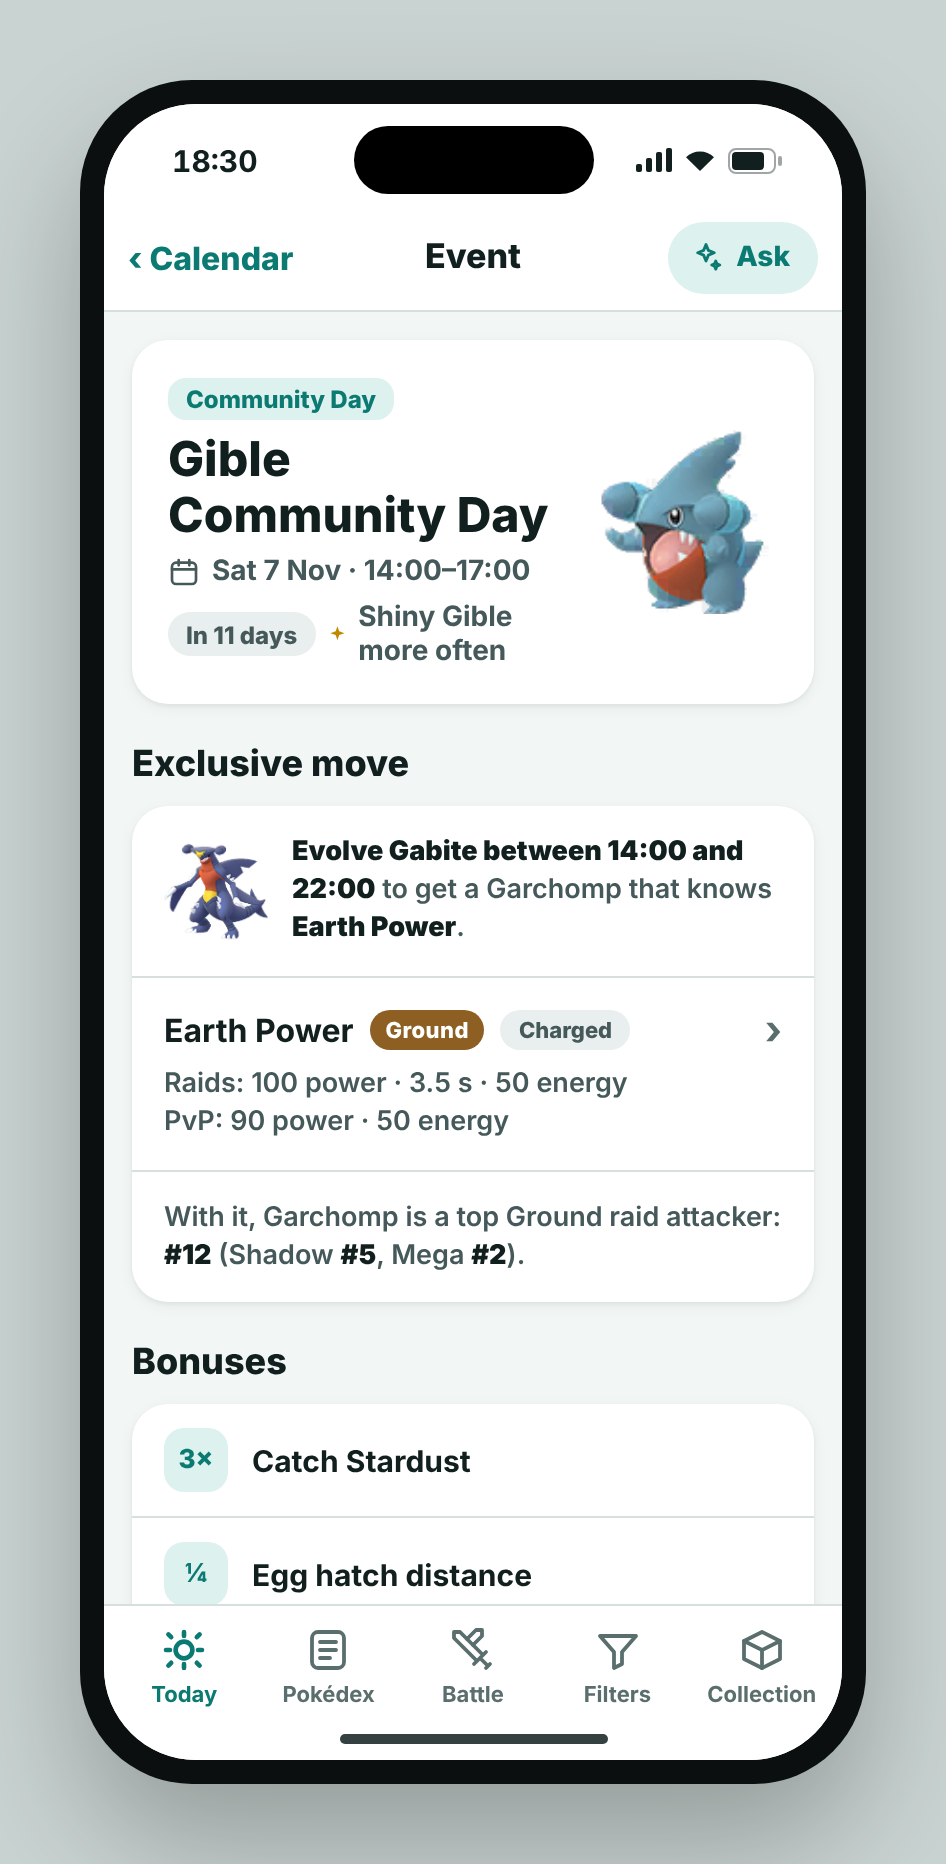
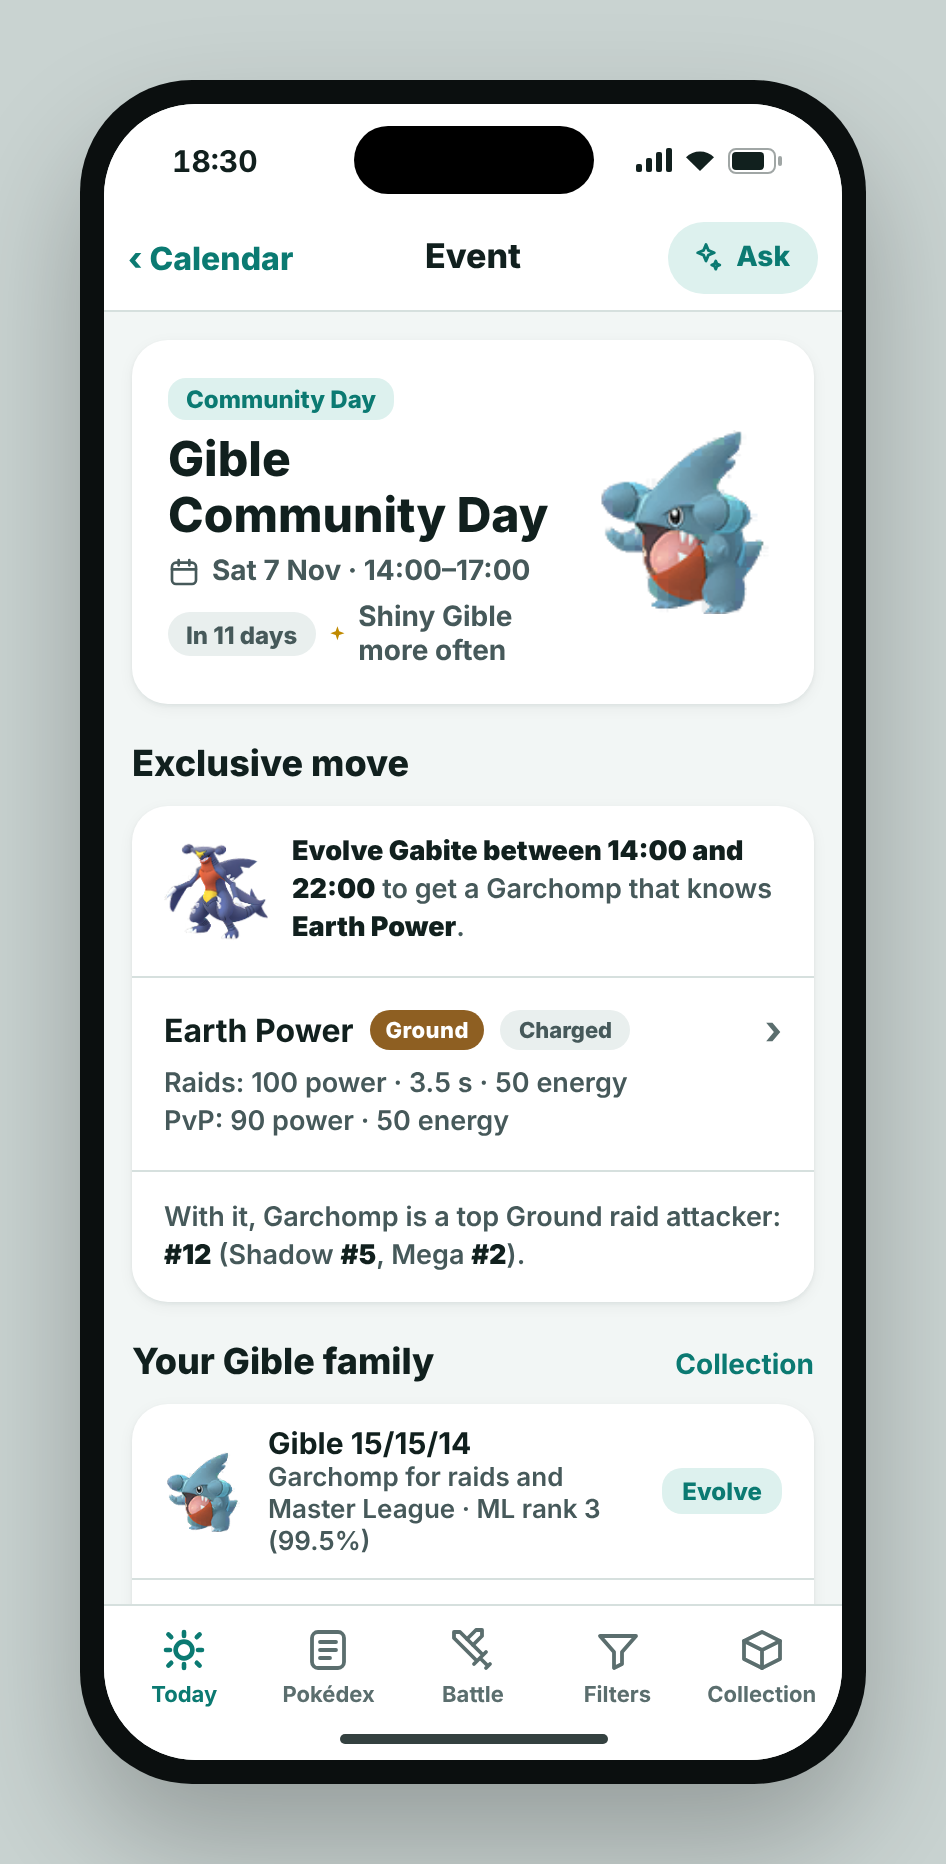
No source info anywhere (2.11 removed); A3 shows your Gible family (proposal)
Claude-Session: https://claude.ai/code/session_014PLsCiJiJmtsciFeh9tQXY

Changed region(s): [[0.1226, 0.7157, 0.6131, 0.8712], [0.7051, 0.7779, 0.8277, 0.8401], [0.7051, 0.7157, 0.8584, 0.7468]]

diff --git a/design/source/screens/A3-phone.html b/design/source/screens/A3-phone.html
@@ -12,6 +12,13 @@
  <div class="blk"><div style="display:flex;align-items:center;gap:8px"><b style="font-size:16px">Earth Power</b><span class="type ground">Ground</span><span class="pill soft" style="height:20px;font-size:11px">Charged</span><span class="chev">›</span></div>
   <div class="note" style="margin-top:6px">Raids: 100 power · 3.5 s · 50 energy<br>PvP: 90 power · 50 energy</div></div>
  <div class="blk note">With it, Garchomp is a top Ground raid attacker: <b style="color:var(--text)">#12</b> (Shadow <b style="color:var(--text)">#5</b>, Mega <b style="color:var(--text)">#2</b>).</div>
+</div></section><section class="section"><div class="sechead"><h2 class="sectitle">Your Gible family</h2><a class="seclink">Collection</a></div><div class="card">
+ <div class="mrow"><img class="sprite" src="../sprites/443.png" width="40" height="40" alt=""><div class="mtxt"><b>Gible 15/15/14</b><span>Garchomp for raids and Master League · ML rank 3 (99.5%)</span></div><span class="tag go">Evolve</span></div>
+ <div class="mrow"><img class="sprite" src="../sprites/443.png" width="40" height="40" alt=""><div class="mtxt"><b>Gible 0/15/14</b><span>Great League rank 1 · Garchomp CP 1,495</span></div><span class="tag go">Evolve</span></div>
+ <div class="mrow"><img class="sprite" src="../sprites/443.png" width="40" height="40" alt=""><div class="mtxt"><b>Gible 1/13/15</b><span>Great League rank 11 (99.4%) · backup</span></div><span class="tag go">Evolve</span></div>
+ <div class="mrow"><img class="sprite" src="../sprites/444.png" width="40" height="40" alt=""><div class="mtxt"><b>Gabite 12/12/13</b><span>Master League rank 160 (96.6%) · if you have the candy</span></div><span class="tag maybe">Optional</span></div>
+ <div class="mrow"><img class="sprite" src="../sprites/443.png" width="40" height="40" alt=""><div class="mtxt"><b>Gible 10/4/2</b><span>Not good in any league</span></div><span class="tag no">Transfer</span></div>
+ <div class="blk note">Each Garchomp costs 25 + 100 candy. Poke Genie doesn't export candy, so check yours in the game.</div>
 </div></section><section class="section"><h2 class="sectitle">Bonuses</h2><div class="card">
  <div class="li"><span class="ic">3×</span>Catch Stardust</div>
  <div class="li"><span class="ic">¼</span>Egg hatch distance</div>

diff --git a/design/source/screens/A3-desktop.html b/design/source/screens/A3-desktop.html
@@ -18,7 +18,14 @@
  <div class="li"><span class="ic">¼</span>Egg hatch distance</div>
  <div class="li"><span class="ic">3h</span>Lure Modules and Incense last 3 hours</div>
 </div></section></div>
- <div style="display:flex;flex-direction:column;gap:22px"><section class="section"><h2 class="sectitle">100% CP to look for</h2><div class="card"><table class="cpt">
+ <div style="display:flex;flex-direction:column;gap:22px"><section class="section"><div class="sechead"><h2 class="sectitle">Your Gible family</h2><a class="seclink">Collection</a></div><div class="card">
+ <div class="mrow"><img class="sprite" src="../sprites/443.png" width="40" height="40" alt=""><div class="mtxt"><b>Gible 15/15/14</b><span>Garchomp for raids and Master League · ML rank 3 (99.5%)</span></div><span class="tag go">Evolve</span></div>
+ <div class="mrow"><img class="sprite" src="../sprites/443.png" width="40" height="40" alt=""><div class="mtxt"><b>Gible 0/15/14</b><span>Great League rank 1 · Garchomp CP 1,495</span></div><span class="tag go">Evolve</span></div>
+ <div class="mrow"><img class="sprite" src="../sprites/443.png" width="40" height="40" alt=""><div class="mtxt"><b>Gible 1/13/15</b><span>Great League rank 11 (99.4%) · backup</span></div><span class="tag go">Evolve</span></div>
+ <div class="mrow"><img class="sprite" src="../sprites/444.png" width="40" height="40" alt=""><div class="mtxt"><b>Gabite 12/12/13</b><span>Master League rank 160 (96.6%) · if you have the candy</span></div><span class="tag maybe">Optional</span></div>
+ <div class="mrow"><img class="sprite" src="../sprites/443.png" width="40" height="40" alt=""><div class="mtxt"><b>Gible 10/4/2</b><span>Not good in any league</span></div><span class="tag no">Transfer</span></div>
+ <div class="blk note">Each Garchomp costs 25 + 100 candy. Poke Genie doesn't export candy, so check yours in the game.</div>
+</div></section><section class="section"><h2 class="sectitle">100% CP to look for</h2><div class="card"><table class="cpt">
  <tr><th>Pokémon</th><th>Normal</th><th>Boosted</th></tr>
  <tr><td>Gible (catch)</td><td>954</td><td>1,033</td></tr>
  <tr><td>Garchomp (after evolving)</td><td>3,396</td><td>3,679</td></tr>

diff --git a/design/source/screens/_a3.css b/design/source/screens/_a3.css
@@ -15,3 +15,12 @@
 .chev { margin-left: auto; color: var(--text-3); font-size: 20px; font-weight: 700; }
 .note { font-size: 13.5px; color: var(--text-2); font-weight: 600; line-height: 1.4; }
 .type { vertical-align: 1px; }
+
+.mrow { display: flex; align-items: center; gap: 12px; padding: 10px 16px; }
+.mrow + .mrow { border-top: 1px solid var(--line); }
+.mtxt { flex: 1; min-width: 0; display: flex; flex-direction: column; font-size: 15px; }
+.mtxt span { font-size: 13px; color: var(--text-2); font-weight: 600; }
+.tag { flex: none; font-size: 12px; font-weight: 800; padding: 4px 10px; border-radius: 10px; }
+.tag.go { background: var(--accent-soft); color: var(--accent); }
+.tag.maybe { background: var(--surface-2); color: var(--text-2); }
+.tag.no { background: #FBE4E1; color: var(--danger); }

diff --git a/design/source/screens/gen_a3.py b/design/source/screens/gen_a3.py
@@ -36,13 +36,21 @@ research = '''<section class="section"><h2 class="sectitle">Field Research</h2><
  <div class="li" style="font-weight:700"><img class="sprite" src="../sprites/443.png" width="32" height="32" alt=""><div><div>Catch 15 Gible</div><div class="note">Reward: Gible encounter</div></div></div>
 </div></section>'''
 
+mine = """<section class="section"><div class="sechead"><h2 class="sectitle">Your Gible family</h2><a class="seclink">Collection</a></div><div class="card">
+ <div class="mrow"><img class="sprite" src="../sprites/443.png" width="40" height="40" alt=""><div class="mtxt"><b>Gible 15/15/14</b><span>Garchomp for raids and Master League · ML rank 3 (99.5%)</span></div><span class="tag go">Evolve</span></div>
+ <div class="mrow"><img class="sprite" src="../sprites/443.png" width="40" height="40" alt=""><div class="mtxt"><b>Gible 0/15/14</b><span>Great League rank 1 · Garchomp CP 1,495</span></div><span class="tag go">Evolve</span></div>
+ <div class="mrow"><img class="sprite" src="../sprites/443.png" width="40" height="40" alt=""><div class="mtxt"><b>Gible 1/13/15</b><span>Great League rank 11 (99.4%) · backup</span></div><span class="tag go">Evolve</span></div>
+ <div class="mrow"><img class="sprite" src="../sprites/444.png" width="40" height="40" alt=""><div class="mtxt"><b>Gabite 12/12/13</b><span>Master League rank 160 (96.6%) · if you have the candy</span></div><span class="tag maybe">Optional</span></div>
+ <div class="mrow"><img class="sprite" src="../sprites/443.png" width="40" height="40" alt=""><div class="mtxt"><b>Gible 10/4/2</b><span>Not good in any league</span></div><span class="tag no">Transfer</span></div>
+ <div class="blk note">Each Garchomp costs 25 + 100 candy. Poke Genie doesn't export candy, so check yours in the game.</div>
+</div></section>"""
 fresh = ''
 head = '<!doctype html><html lang="en"><head><meta charset="utf-8"><title>A3 Event details</title><link rel="stylesheet" href="../base.css"><link rel="stylesheet" href="_a3.css"></head><body>'
 
 phone = head + f'''<div class="stage"><div class="device"><div class="screen">
 <div data-statusbar></div><div data-dethead="Calendar|Event"></div>
 <div class="scroll"><div style="padding:14px 14px 20px;display:flex;flex-direction:column;gap:20px">
-{hero(92)}{move}{bonuses}{cps}{research}{fresh}
+{hero(92)}{move}{mine}{bonuses}{cps}{research}{fresh}
 </div></div><div data-tabbar="today"></div></div></div></div><script src="../chrome.js"></script></body></html>'''
 
 desk = head + f'''<div class="desktop"><div data-sidebar="calendar"></div><div class="main"><div data-topbar></div>
@@ -50,7 +58,7 @@ desk = head + f'''<div class="desktop"><div data-sidebar="calendar"></div><div c
 {hero(132)}
 <div style="display:grid;grid-template-columns:minmax(0,1.3fr) minmax(0,1fr);gap:24px;align-items:start">
  <div style="display:flex;flex-direction:column;gap:22px">{move}{bonuses}</div>
- <div style="display:flex;flex-direction:column;gap:22px">{cps}{research}</div>
+ <div style="display:flex;flex-direction:column;gap:22px">{mine}{cps}{research}</div>
 </div>{fresh}</div></div></div><script src="../chrome.js"></script></body></html>'''
 
 (HERE / 'A3-phone.html').write_text(phone)

diff --git a/planning/SPECS.md b/planning/SPECS.md
@@ -46,8 +46,6 @@ How each feature works from the user's side, as signed off by the owner. Priorit
 
 **Type matchups (MVP).** Weaknesses and resistances with multipliers.
 
-**Sources (MVP).** Each fact shows where it came from (game files, PvPoke; later "admin-verified").
-
 **Later (Good to have).** Special conditions found by the AI (with data corrections); changes over time (history from the game files); "report wrong data"; your copies of it with their ranks; power-up cost (candy, XL candy, Stardust, incl. Shadow/Purified/lucky).
 
 **Where the information comes from.** Game files (stats, moves, evolution rules, forms, history), PvPoke (PvP rankings, move flags), our calculations (raid ranks, best IVs, CP tables), the AI researcher (current appearances), later AI-found facts.
@@ -118,7 +116,7 @@ How each feature works from the user's side, as signed off by the owner. Priorit
 
 **Getting there.** From the menu (Raids), "Today in the game" on the home page, and the calendar.
 
-**Boss list (MVP).** Current bosses by tier (1-star, 3-star, 5-star, Mega, Shadow, Elite) with picture, types, dates and shiny availability; an Upcoming section. Fetched weekly by the AI researcher (sources such as LeekDuck) and published automatically; the admin can fix or remove entries.
+**Boss list (MVP).** Current bosses by tier (1-star, 3-star, 5-star, Mega, Shadow, Elite) with picture, types, dates and shiny availability; an Upcoming section. Fetched weekly by the AI researcher (sources such as LeekDuck) and published automatically; the admin can fix or remove entries. No source information is shown on screens.
 
 **Boss page (MVP).** Types, weaknesses and resistances; possible moves; 100% CP normal and weather-boosted; **best counters** (averaged over the boss's moves, re-ranked when you pick its actual moves; one Mega slot); **your best counters** from your collection at real levels and IVs.
 
@@ -128,7 +126,7 @@ How each feature works from the user's side, as signed off by the owner. Priorit
 
 **Future.** Weather check (approximate in-game weather where you are).
 
-**Where the information comes from.** AI researcher (bosses, dates; source shown), game files (boss stats, moves), our raid calculations (counters, with type effectiveness and boss moves).
+**Where the information comes from.** AI researcher (bosses, dates), game files (boss stats, moves), our raid calculations (counters, with type effectiveness and boss moves).
 
 ## 7. Max Battles — signed off 2026-10-27 (all after the MVP)
 
@@ -242,7 +240,7 @@ How each feature works from the user's side, as signed off by the owner. Priorit
 
 **Calendar (MVP).** Current and upcoming raid rotations, Max Battle weeks and events (Community Days, Spotlight Hours, Raid Days/Hours, seasons, special events) with dates and times in your time zone, featured Pokémon, bonuses and exclusive moves.
 
-**AI researcher (MVP).** Weekly, reads sources such as LeekDuck and game news; fetches raid rotations, events, egg pools and research rewards; publishes automatically with the source shown. The admin can fix or remove entries, or run it again mid-week. Its cost counts in the $5/month AI cap.
+**AI researcher (MVP).** Weekly, reads sources such as LeekDuck and game news; fetches raid rotations, events, egg pools and research rewards; publishes automatically (no source shown on screens). The admin can fix or remove entries, or run it again mid-week. Its cost counts in the $5/month AI cap.
 
 **Later (Good to have).** Past events archive (feeds "when it appeared" on Pokémon pages).
 

diff --git a/PLAN.md b/PLAN.md
@@ -48,7 +48,7 @@ Each feature lists what you can do, what the backend needs, where the data comes
 - **every version it has or had**: regional forms, costumes (incl. retired), shiny, Shadow/Purified, Mega, Dynamax/Gigantamax — and changes over time (moves added or rebalanced);
 - its rankings (PvP leagues, raid rank per type, Max Battle rank);
 - its best IVs per league with a one-tap search string;
-- where each fact comes from (game files, PvPoke, admin-approved), with a "report wrong data" button;
+- a "report wrong data" button;
 - **your copies** of it (from your collection) with IVs, level, moves and PvP rank per league;
 - an **IV rank checker**: type any IVs and see rank, best level and CP per league, for it and its evolutions;
 - **type matchups**: weaknesses and resistances with multipliers;
@@ -186,7 +186,7 @@ Plus:
 ### 13. Game calendar (bosses and events)
 
 **You can:** see current and upcoming raid rotations, Max Battle weeks and events (Community Days, Spotlight Hours, raid days, seasons), with featured Pokémon and bonuses; a home page with "today in the game".
-**Backend:** the **weekly AI research job** reads sources such as LeekDuck and game news, fetches the rotation and events, and **publishes them automatically** with their source; the admin only fixes or removes entries. (With feature 12, proposals can later go through the review queue.)
+**Backend:** the **weekly AI research job** reads sources such as LeekDuck and game news, fetches the rotation and events, and **publishes them automatically** (no source shown on screens); the admin only fixes or removes entries. (With feature 12, proposals can later go through the review queue.)
 Plus:
 - **Past events archive:** every past event and rotation is kept, and feeds "event appearances" on each Pokémon page;
 - **Event prep checklist:** what to do before and during an event (e.g. evolve during Community Day for the exclusive move, save candy), drafted by the AI and approved by the admin;

diff --git a/design/source/CONVENTIONS.md b/design/source/CONVENTIONS.md
@@ -48,6 +48,6 @@ All screens show the same moment and the same trainer, so they tell one consiste
   - Sat 7 Nov 14:00–17:00 — Community Day: Gible.
 - **Community Day: Gible details** (A3; sample): Sat 7 Nov 14:00–17:00; shiny Gible more often; evolve Gabite 14:00–22:00 → Garchomp learns **Earth Power** (raids 100 power · 3.5 s · −50 energy; PvP 90 power · −50 energy); bonuses 3× catch Stardust, ¼ egg hatch distance, Lure Modules and Incense last 3 hours; Field Research "Catch 15 Gible → Gible encounter"; hundo CPs Gible 954 (L30) / 1,033 (L35 boosted, Windy or Sunny), Garchomp after evolving 3,396 / 3,679.
 - **Eggs:** 10 km includes Gible; **Research:** "Win 3 raids" → Gible encounter.
-- **Collection:** 2,148 Pokémon; last import Sun 25 Oct 21:14 (63 new, 40 gone, 12 changed). Includes a Garchomp 2/15/13 L23 (UL rank 41), a Medicham 1/15/15 L49.5 (GL rank 12), Shadow Zekrom, Zeraora, Mega-ready Sceptile.
+- **Collection:** 2,148 Pokémon; last import Sun 25 Oct 21:14 (63 new, 40 gone, 12 changed). Includes a Garchomp 2/15/13 L23 (UL rank 41); the Gible family: Gible 15/15/14 (→ Garchomp ML rank 3, 99.5%), Gible 0/15/14 (→ GL rank 1, CP 1,495), Gible 1/13/15 (→ GL rank 11, 99.4%), Gible 10/4/2 (no league above 95%), Gabite 12/12/13 (→ ML rank 160, 96.6%), a Medicham 1/15/15 L49.5 (GL rank 12), Shadow Zekrom, Zeraora, Mega-ready Sceptile.
 - **Kyogre counters** (from today's raid model, same numbers on every screen): Mega Sceptile 57.3 (Mega slot) · Shadow Zekrom 44.6 · Zeraora 41.5 · Shadow Raikou 41.2 · Shadow Electivire 39.8 · Shadow Chesnaught 39.3 · Zarude 39.2 · Regieleki 39.2 · Xurkitree 39.1.
 - **Garchomp** (B2 example): Atk 261 · Def 193 · Sta 239 · max CP 3,962 / 4,479 / 4,532 (L40/50/51) · 100% CP 1,698 (L15) / 2,264 (L20) / 2,830 (L25) / 3,396 (L30) / 3,679 (L35) · ML #31 (Shadow #26) · Ground raids #12 (Shadow #5, Mega #2) · GL best IVs 0/15/14.

diff --git a/CLAUDE.md b/CLAUDE.md
@@ -138,7 +138,7 @@ Earlier product work (feature list F01–F25 with priorities, UI choices, first 
 | 2026-10-27 | Screen **A1 Today approved** (tiles for raids and Max Battles, live/next events, eggs & research summary, data-source line). Sprites trimmed and scaled to fill their box equally on all screens. |
 | 2026-10-27 | Working agreement: questions are asked **as plain text in the chat**, answered freely (no multiple-choice pop-ups). |
 | 2026-10-27 | Calendar entry points: calendar button in Today's header (A1 updated) and search offers the Calendar for "calendar", "raid hour", "community day" (H2). **A2 Calendar approved.** |
-| 2026-10-27 | **No source lines on screens** (removed from A1, A2, A3). Whether the source stays reachable (ⓘ) is still open; the specs' "source shown" wording is updated once decided. |
+| 2026-10-27 | **No source information anywhere on screens**: no source lines, no ⓘ, no source badges (item 2.11 removed; specs and PLAN updated). AI chat answers may still cite web pages inside the answer (11.2). |
 | 2026-10-27 | All commits authored by the owner's GitHub account (history rewritten); Claude's involvement shown by the Co-Authored-By trailer. |
 
 ## Open decisions

diff --git a/planning/PRIORITIES.md b/planning/PRIORITIES.md
@@ -5,7 +5,7 @@ Stage 8. Proposed by Claude, **adjusted by the owner on 2026-10-27** (changed ro
 - **MVP** = the first release (web app + API) · **Good to have** = next, after the MVP · **Future** = no commitment.
 - Foundation work (repo, CI/CD, hosting, database, sign-in, OpenAPI clients, the C# engine port) is implied by the MVP and is planned in the backlog.
 
-**Totals:** 56 MVP · 75 Good to have · 28 Future (159 items).
+**Totals:** 55 MVP · 75 Good to have · 28 Future (158 items).
 
 ## 1. Pokédex
 
@@ -36,7 +36,6 @@ Stage 8. Proposed by Claude, **adjusted by the owner on 2026-10-27** (changed ro
 | 2.8 | Changes over time (history backfill) | **Good to have** | Sizeable data work |
 | 2.9 | Rankings summary (PvP, raids, Max) | **MVP** | Core |
 | 2.10 | Best IVs per league + search string | **MVP** | Engine already exists |
-| 2.11 | Source badges | **MVP** | Cheap with the curated layer |
 | 2.12 | Report wrong data | **Good to have** | Feeds the review queue; owner: changed 2026-10-27 |
 | 2.13 | Your copies (from your collection) | **Good to have** | Cheap once the collection exists; owner: changed 2026-10-27 |
 | 2.14 | IV rank checker | **MVP** | Cheap with the engine |
